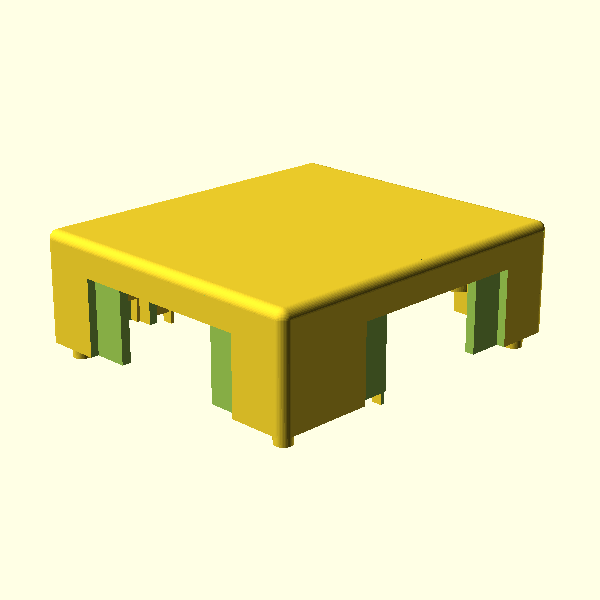
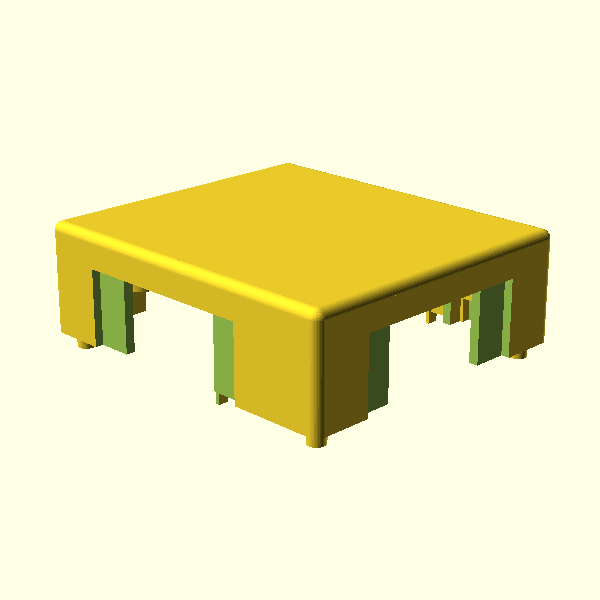
two new bricks added

Changed region(s): [[0.06, 0.27, 0.93, 0.75], [0.27, 0.3, 0.39, 0.33]]

diff --git a/001_4x4_interconnect.html b/001_4x4_interconnect.html
@@ -1,0 +1,270 @@
+<!DOCTYPE html>
+<html lang="cz">
+<head>
+    <meta charset="UTF-8">
+    <meta name="viewport" content="width=device-width, initial-scale=1.0">
+    <title>Briskel Bricks - rozbočovač</title>
+    <link rel="stylesheet" type="text/css" href="css/main.css" />
+    <link rel="icon" type="image/png" href="img/favicon.png">
+    <script src="https://kit.fontawesome.com/08ab134375.js" crossorigin="anonymous"></script>
+</head>
+<body>
+<header>
+    <!--only for desktop and up-->
+    <div class="c-menu-desktop c-menu">
+        <a href="index.html"><img src="img/Briskel-logo.svg" alt="Briskel logo" title="Briskel Bricks" class="c-header_logo"></a>
+        <nav class="c-menu-desktop-nav">
+            <ul>
+                <li><a href="index.html">Domů</a><span class="c-menu_line"></span></li>
+                <li><a href="bricks.html">Bricks</a><span class="c-menu_line"></span></li>
+                <li><a href="how_it_works.html">Princip</a><span class="c-menu_line"></span></li>
+                <li><a href="kontakt.html">Kontakt</a><span class="c-menu_line"></span></li>
+            </ul>
+            <div class="c-menu_flag" onclick="NeniKDispoziciJazyk()"><a href="#"><img src="img/vlajka-UK.svg" alt="english" class="c-menu_flag-img"></a></div>
+        </nav>
+    </div>
+
+    <!--only for tablet and low-->
+    <div class="c-menu-mobile c-menu">
+        <div class="c-menu-hamburger">
+            <a href="index.html"><img src="img/Briskel-logo.svg" alt="Briskel logo" title="Briskel Bricks" class="c-header_logo"></a>
+            <a class="c-menu-hamburger-icon" onclick="HamburgerMenu()"><i class="fa fa-bars"></i></a>
+        </div>
+
+        <nav id="c-mobile-nav">
+            <ul>
+                <li><a href="index.html">Domů</a></li>
+                <li><a href="bricks.html">Bricks</a></li>
+                <li><a href="how_it_works.html">Princip</a></li>
+                <li><a href="kontakt.html">Kontakt</a></li>
+                <li><a href="#" onclick="NeniKDispoziciJazyk()"><img src="img/vlajka-UK.svg" alt="english" class="c-menu_flag-img">English</a></li>
+            </ul>
+        </nav>
+    </div>
+
+</header>
+
+<main id="c-page">
+
+    <noscript class="c-warning" id="c-warning">Prosím, povolte si javascript v prohlížeči. Některé funkce Vám jinak mohou být skryty.</noscript>
+    <p class="c-warning-info" id="c-warning-info">Vítejte na našich stránkách! Berte prosím na vědomí, že stránky jsou právě ve vývoji a mohou obsahovat chyby.</p>
+
+    <h1 class="c-page-first-heading">Rozbočovač</h1>
+
+    <section class="c-section-brick_info">
+        <div class="c-brick_info-brick_box">
+
+            <!--<img src="img/bricks/dioda_tribarevna.jpg" alt="tříbarevná dioda" class="c-brick_box-img">-->
+            <div class="c-mini-gallery">
+                <img class="c-mini-gallery-big-img" id="mini-gallery-big-img" src="downloads/boards/001_4x4_interconnect/img1.jpg" alt="img">
+
+                <div class="c-mini-gallery-small-imgs">
+                    <img src="downloads/boards/001_4x4_interconnect/img1.jpg" alt="img" onclick="miniGallery(this);">
+                    <img src="downloads/boards/001_4x4_interconnect/img2.jpg" alt="img" onclick="miniGallery(this);">
+                    <img src="downloads/boards/001_4x4_interconnect/img3.jpg" alt="img" onclick="miniGallery(this);">
+                    <img src="downloads/boards/001_4x4_interconnect/img4.jpg" alt="img" onclick="miniGallery(this);">
+                    <img src="downloads/boards/001_4x4_interconnect/demo1.jpg" alt="img" onclick="miniGallery(this);">
+                </div>
+            </div>
+
+            <div>
+                <p>Modul obsahuje jeden vstupní konektor a tři výstupní konektory. Krabička slouží jako roztrojka, pouze přeposílá nezměnený signál do třech směrů.</p>
+                
+            </div>
+        </div>
+
+        <!--<img src="img/video.jpg" alt="video" class="c-video">-->
+        <div class="c-video-wrapper">
+            <video controls="controls" src="https://www.briskel.com/videos/001_4x4_interconnect_tutorial.mp4" class="c-video">
+                Your browser does not support the HTML5 Video element.
+            </video>
+        </div>
+    </section>
+
+
+
+    <section class="c-section_manual">
+
+        <div class="c-section-heading" onclick="ShowHideMan()">
+            <h2>Návod k výrobě</h2>
+            <span id="c-man-open"><i class="fas fa-caret-up"></i></span>
+            <span id="c-man-close"><i class="fas fa-caret-down"></i></span>
+        </div>
+
+
+        <div id="c-manual">
+            
+            <div class="c-video-wrapper">
+                <video controls="controls" src="https://www.briskel.com/videos/001_4x4_interconnect_assembly.mp4" class="c-video">
+                    Your browser does not support the HTML5 Video element.
+                </video>
+            </div>
+            
+            <h3>Seznam součástek potřebných k vyrobení:</h3>
+
+            <div class="c-vertical-scroll">
+                <table class="c-table">
+                    <thead>
+                    <tr>
+                        <th>Kategorie</th>
+                        <th></th>
+                        <th>Popis</th>
+                        <th>Poznámka</th>
+                        <th>Počet</th>
+                        <th>Název</th>
+                    </tr>
+                    </thead>
+                    <tbody>
+                    <tr>
+                        <td>3D tisk</td>
+                        <td>
+                            <img src="downloads/boards/001_4x4_interconnect/001_4x4_interconnect_top.png"
+                             alt="top" width="64" height="64" onclick="showLightbox();ccurrentSlide(1)">
+                        </td>
+                        <td>Krabička top</td>
+                        <td>Tisk bez podpor</td>
+                        <td>1</td>
+                        <td>
+                            <a href="downloads/boards/001_4x4_interconnect/001_4x4_interconnect_top.stl">
+                                001_4x4_interconnect_top.stl</a>
+                        </td>
+                    </tr>
+                    <tr>
+                        <td>3D tisk</td>
+                        <td>
+                            <img src="downloads/common/mechanics/000_4x4_BottomStandard.png"
+                             alt="bot" width="64" height="64" onclick="showLightbox();ccurrentSlide(2)">
+                        </td>
+                        <td>Krabička spodek</td>
+                        <td>Tisk bez podpor</td>
+                        <td>1</td>
+                        <td>
+                            <a href="downloads/common/mechanics/000_4x4_BottomStandard.stl">
+                                000_4x4_BottomStandard.stl</a>
+                        </td>
+                    </tr>
+                    <tr>
+                        <td>3D tisk</td>
+                        <td>
+                            <img src="downloads/common/mechanics/000_pcb_distance_washer.png"
+                             alt="washer" width="64" height="64" onclick="showLightbox();ccurrentSlide(3)">
+                        </td>
+                        <td>Podpora pod PCB</td>
+                        <td>Tisk bez podpor</td>
+                        <td>4</td>
+                        <td>
+                            <a href="downloads/common/mechanics/000_pcb_distance_washer.stl">
+                                000_pcb_distance_washer.stl</a>
+                        </td>
+                    </tr>
+                    <tr>
+                        <td>Elektronika</td>
+                        <td>
+                            <img src="downloads/boards/001_4x4_interconnect/pcb.jpg"
+                             alt="pcb" width="64" height="64" onclick="showLightbox();ccurrentSlide(4)">
+                        </td>
+                        <td>Osazený plošný spoj s konektory, naprogramovaný</td>
+                        <td></td>
+                        <td>1</td>
+                        <td>001_4x4_interconnect</td>
+                    </tr>
+                    <tr>
+                        <td>Spojovací materiál</td>
+                        <td>
+                            <img src="downloads/common/mechanics/screw_B2.5X16.jpg"
+                             alt="screw" width="64" height="64" onclick="showLightbox();ccurrentSlide(5)">
+                        </td>
+                        <td>Šroub do plastu B2.5X16</td>
+                        <td></td>
+                        <td>4</td>
+                        <td></td>
+                    </tr>
+                    </tbody>
+
+                </table>
+            </div>
+        </div>
+    </section>
+
+    <!-- gallery shows when img in table is clicked -->
+    <div id="c-gallery-show">
+
+        <span class="c-lightbox-close" id="c-lightbox-close" onclick="hideLightbox()">&times;</span>
+
+        <div class="c-slideshow-container c-slideshow-container-fullscreen">
+
+            <div class="c-slide c-slide-fade">
+                <div class="c-slide-number">1 / 5</div>
+                <img src="downloads/boards/001_4x4_interconnect/001_4x4_interconnect_top.png" alt="img" class="c-slide-img">
+                <div class="c-slide-text">Krabička top</div>
+            </div>
+
+            <div class="c-slide c-slide-fade">
+                <div class="c-slide-number">2 / 5</div>
+                <img src="downloads/common/mechanics/000_4x4_BottomStandard.png" alt="img" class="c-slide-img">
+                <div class="c-slide-text">Krabička spodek</div>
+            </div>
+
+            <div class="c-slide c-slide-fade">
+                <div class="c-slide-number">3 / 5</div>
+                <img src="downloads/common/mechanics/000_pcb_distance_washer.png" alt="img" class="c-slide-img">
+                <div class="c-slide-text">Podpora pod PCB</div>
+            </div>
+
+            <div class="c-slide c-slide-fade">
+                <div class="c-slide-number">4 / 5</div>
+                <img src="downloads/boards/001_4x4_interconnect/pcb.jpg" alt="img" class="c-slide-img">
+                <div class="c-slide-text">Osazený plošný spoj s konektory, naprogramovaný</div>
+            </div>
+
+            <div class="c-slide c-slide-fade">
+                <div class="c-slide-number">5 / 5</div>
+                <img src="downloads/common/mechanics/screw_B2.5X16.jpg" alt="img" class="c-slide-img">
+                <div class="c-slide-text">Šroub do plastu B2.5X16</div>
+            </div>
+
+            <a class="c-slide-prev" onclick="cplusSlides(-1)">&#10094;</a>
+            <a class="c-slide-next" onclick="cplusSlides(1)">&#10095;</a>
+        </div>
+        <br />
+
+        <div class="c-slideshow-dots">
+            <img src="downloads/boards/001_4x4_interconnect/001_4x4_interconnect_top.png" class="c-lightbox-img-small" onclick="ccurrentSlide(1)">
+            <img src="downloads/common/mechanics/000_4x4_BottomStandard.png" class="c-lightbox-img-small" onclick="ccurrentSlide(2)">
+            <img src="downloads/common/mechanics/000_pcb_distance_washer.png" class="c-lightbox-img-small" onclick="ccurrentSlide(3)">
+            <img src="downloads/boards/001_4x4_interconnect/pcb.jpg" class="c-lightbox-img-small" onclick="ccurrentSlide(4)">
+            <img src="downloads/common/mechanics/screw_B2.5X16.jpg" class="c-lightbox-img-small" onclick="ccurrentSlide(5)">
+        </div>
+    </div>
+
+   <section class="c-page_electronics">
+
+        <div class="c-section-heading" onclick="ShowHideEle()">
+            <h2>Elektronika</h2>
+            <span id="c-ele-open"><i class="fas fa-caret-up"></i></span>
+            <span id="c-ele-close"><i class="fas fa-caret-down"></i></span>
+        </div>
+
+        <div id="c-electronics">
+            <p>
+                Plošný spoj - <a href="downloads/boards/001_4x4_interconnect/schematics.pdf" target="_blank">schema</a>
+            <p>
+        </div>
+        
+    </section>
+
+
+
+</main>
+
+<footer>
+    <p>
+        &copy; 2020 Martin Paták a Lucie Fiedlerová<br>
+        Background image by <a href="https://pixabay.com/users/semevent-4278751/?utm_source=link-attribution&amp;utm_medium=referral&amp;utm_campaign=image&amp;utm_content=2458575">Semevent</a> from <a href="https://pixabay.com/?utm_source=link-attribution&amp;utm_medium=referral&amp;utm_campaign=image&amp;utm_content=2458575">Pixabay</a>
+    </p>
+</footer>
+
+<script src="javascript/main.js"></script>
+
+</body>
+</html>

diff --git a/bricks.html b/bricks.html
@@ -131,8 +131,8 @@
             <p>Napájení 4xAA</p>
         </a>
 
-        <a href="#" class="c-card" onclick="NeniKDispozici()">
-            <img src="img/bricks/rozbocovac.jpg" alt="Rozbočovač">
+        <a href="001_4x4_interconnect.html" class="c-card">
+            <img src="downloads/boards/001_4x4_interconnect/img1.jpg" alt="Rozbočovač">
             <p>Rozbočovač</p>
         </a>
     </div>
@@ -140,7 +140,7 @@
     <ul class="c-bricks-ul">    <!-- for tablet and low -->
         <li><a href="#" onclick="NeniKDispozici()">Bzučák</a></li>
         <li><a href="#" onclick="NeniKDispozici()">Napájení 4xAA</a></li>
-        <li><a href="#" onclick="NeniKDispozici()">Rozbočovač</a></li>
+        <li><a href="001_4x4_interconnect.html">Rozbočovač</a></li>
     </ul>
 
 

diff --git a/kontakt.html b/kontakt.html
@@ -50,6 +50,7 @@
     <p class="c-warning-info">Vítejte na našich stránkách! Berte prosím na vědomí, že stránky jsou právě ve vývoji a mohou obsahovat chyby.</p>
 
     <p>Stránka je ještě ve vývoji.</p>
+    <p>Veškeré dotazy pište na info&#64;briskel.com </p>
 
 
 </main>
